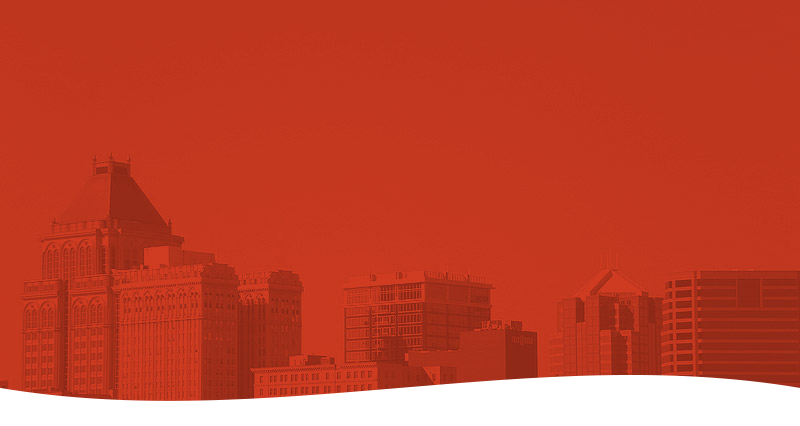
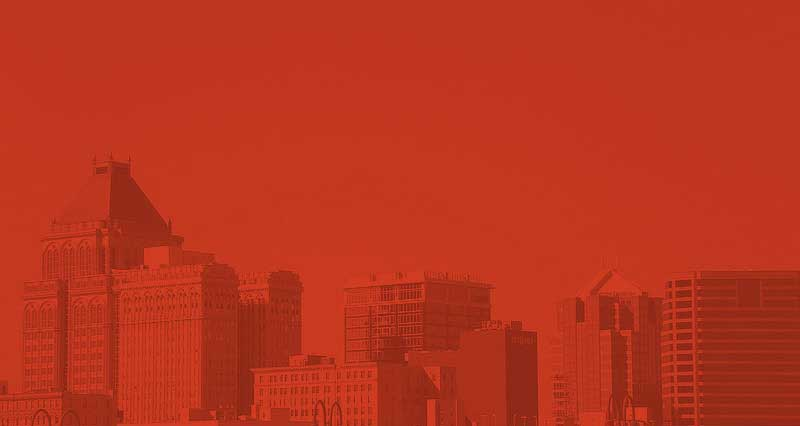
- Fixes up the leadership page to use emails addresses until bios are ready - Removes the overloading of the High Voltage default page routing, which I tried out, in favor of the default routing and a single layout ("application") - A few last minute changes for some bugs I saw in Chrome

Changed region(s): [[0.0, 0.8545, 1.0, 1.0]]

diff --git a/app/assets/stylesheets/base/_layout.scss b/app/assets/stylesheets/base/_layout.scss
@@ -2,30 +2,37 @@
 // codeforgreensboro.org
 
 section {
-	&#hero {
+	&.hero {
 		background: $red image-url('gsoskyline.jpg') center -80px no-repeat fixed;
 		background-size: cover;
 		min-height: 600px;
 		padding-top: 8%;
 	}
-	&#top-deck {
+	&.top-deck {
 		position: relative;
 		&:before {
 			content: "";
 			width: 100%;
 			height: 90px;
 			position: absolute;
-			top: -240px;
+			top: -220px;
 			left: 0;
 			background: image-url('wave.png') center center no-repeat;
 			background-size: cover;
 		}
 	}
-	&#calls {
+	&.calls {
 		background: 
 			image-url('stripes-large.png') top center no-repeat,
 			image-url('objects-002.png') repeat;
 		padding-top: $base-spacing*12;
+	}
+	&.wide-image {
+		overflow: hidden;
+		height: $base-spacing*12;
+		img {
+			width: 300%;
+		}
 	}
 }
 
@@ -46,20 +53,6 @@ header.internal {
 	}
 }
 
-.leftcolumn {
-	@include span-columns(9);
-}
-.sidebar {
-	@include span-columns(3);
-
-	h2 {
-		font-size: 120%;
-	}
-	p {
-		font-size: 90%;
-	}
-}
-
 // Blocks
 //
 // Reusable grid members
@@ -77,6 +70,30 @@ header.internal {
 	}
 	&.four-up {
 		@include span-columns(3);
+
+		h4 {
+			margin-bottom: $small-spacing/2;
+		}
+	}
+}
+
+.card {
+	position: relative;
+	@include span-columns(3.90);
+	border: 5px solid #d7d7d7;
+	padding: $base-spacing*3 $base-spacing $small-spacing;
+	margin-top: $base-spacing*2.5;
+	background-size: cover;
+
+	h4, h5 {
+		margin: 0;
+		text-align: center;
+	}
+	h5 {
+		margin-bottom: $small-spacing;
+	}
+	p {
+		font-size: 95%;
 	}
 }
 
@@ -84,6 +101,49 @@ header.internal {
 //
 // Specific parts of our base layout
 
+.leftcolumn {
+	@include span-columns(9);
+	&.has-top-padding {
+		padding-top: $base-spacing*1.3;
+	}
+}
+.sidebar {
+	@include span-columns(3);
+
+	h2 {
+		font-size: 120%;
+	}
+	p {
+		font-size: 90%;
+	}
+}
+
 footer {
 	background: $neutral;
+}
+
+// Images
+//
+// Stuff for images
+
+.portrait {
+	border-radius: 200px;
+	width: 140px;
+	height: 140px;
+	overflow: hidden;
+	float: right;
+	margin: 0 0 $small-spacing $small-spacing;
+}
+.card {
+	.portrait {
+		width: 90px;
+		height: 90px;
+		position: absolute;
+		top: -45px;
+		left: 35%;
+		border: 5px solid $red;
+	}
+}
+.home-button {
+	margin-top: 1px;
 }

diff --git a/app/assets/stylesheets/base/_typography.scss b/app/assets/stylesheets/base/_typography.scss
@@ -48,6 +48,7 @@ h4 {
 h5 {
   font-size: 1.25rem;
   line-height: 1.2;
+  color: $blue;
 }
 
 p {
@@ -81,6 +82,14 @@ hr {
   border-right: none;
   border-top: none;
   margin: $base-spacing 0;
+}
+
+blockquote {
+  border-left: 3px solid #ccc;
+  margin-left: 0;
+  padding-left: $base-spacing;
+  font-style: italic;
+  color: #666;
 }
 
 img,

diff --git a/app/assets/stylesheets/base/_lists.scss b/app/assets/stylesheets/base/_lists.scss
@@ -33,6 +33,7 @@ dl {
 header#navigation {
   ul {
     @include outer-container;
+    margin-bottom: -8px;
     li {
       float: left;
       margin-right: $base-spacing;

diff --git a/app/assets/javascripts/application.js b/app/assets/javascripts/application.js
@@ -13,4 +13,5 @@
 //= require jquery
 //= require jquery_ujs
 //= require turbolinks
+//= require ui
 //= require_tree .

diff --git a/config/initializers/high_voltage.rb b/config/initializers/high_voltage.rb
@@ -1,4 +1,4 @@
 HighVoltage.configure do |config|
-  config.routes = false
-  config.layout = 'internal'
+	config.home_page = 'home'
+	config.route_drawer = HighVoltage::RouteDrawers::Root
 end

diff --git a/config/routes.rb b/config/routes.rb
@@ -1,4 +1,2 @@
 CodeforgreensboroOrg::Application.routes.draw do
-  get "/pages/*id" => 'pages#show', as: :page, format: false
-  root to: 'pages#show', id: 'home'
 end

diff --git a/readme.md b/readme.md
@@ -31,7 +31,7 @@ You can nest pages in a directory structure, if that makes sense from a URL pers
 
 Bam.
 
-### Other dependencies
+### Other dependencies (which we may not even be using yet)
 - https://github.com/cranieri/meetup_client
 
 ### Getting up and running
@@ -41,6 +41,9 @@ Bam.
 - Make your changes
 - Submit a pull request
 - Literally save the world
+
+### Future States
+- Use [Markdown for views](http://stackoverflow.com/questions/4163560/how-can-i-automatically-render-partials-using-markdown-in-rails-3/10131299#10131299)
 
 ### Help
 If you get stuck, help info will go here (Slack, etc.)
